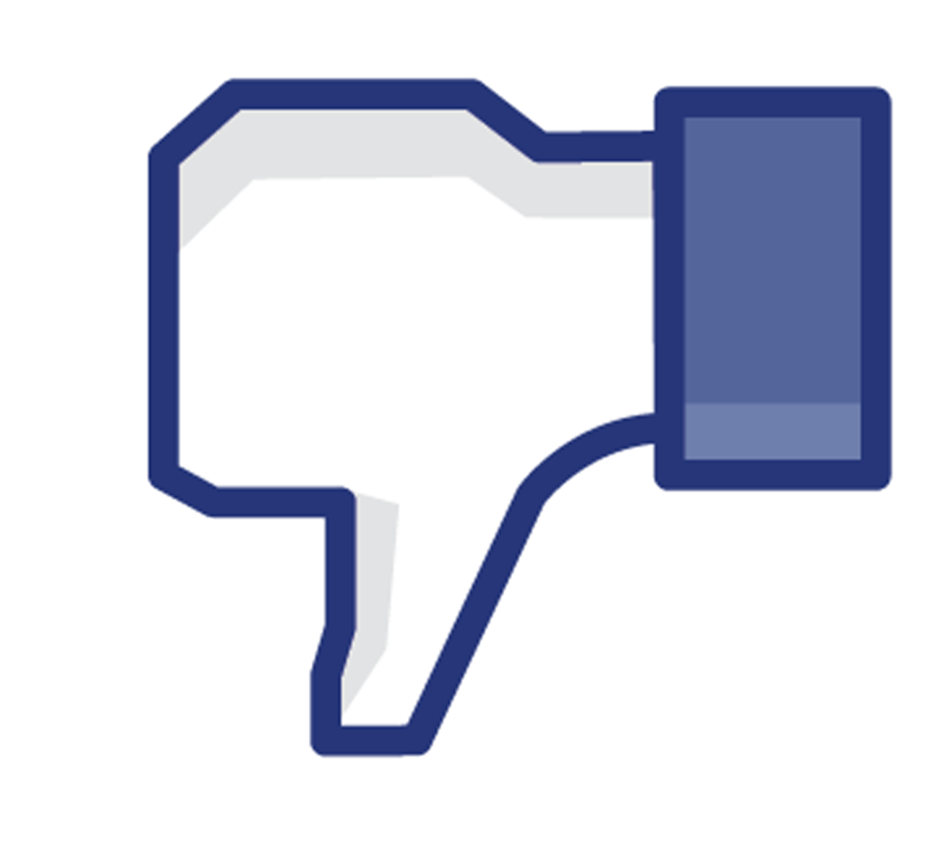
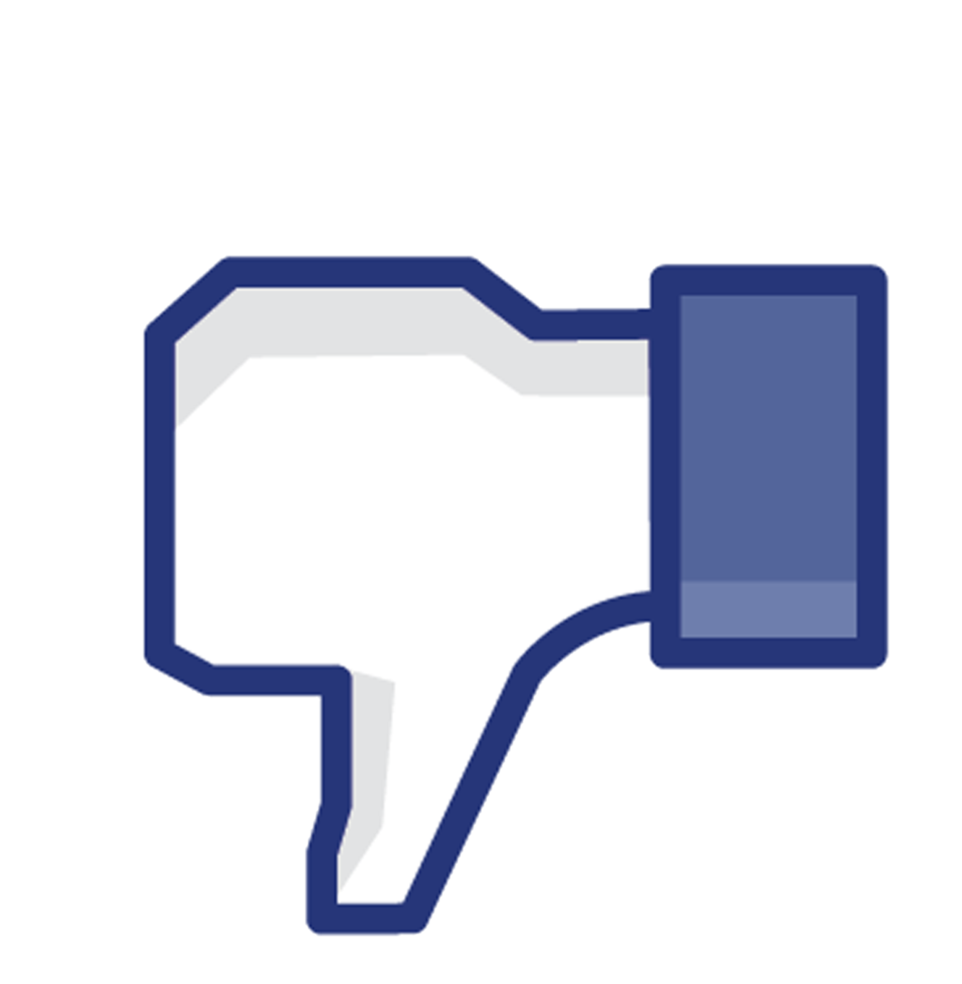
Adjusted voting button alignment

diff --git a/script.js b/script.js
@@ -125,18 +125,18 @@ socket.onmessage = function(event) {
 				content += '<li data-page="'+ k +'"><a href="#" >'+ k +'</a></li>';
 			}
 		
-			content += '</ul></div></div>';
+			content += '</ul>';
 			
 			content += '<table align="right"><tbody>'
 							+ '<tr class="voteCell_'+ iOffset +'">'
 							//+ '<td class="upvote" id="' + jsonData[apiCall][j].pID +'">'
-							+ '<td class="upvote">'
-							+ '<input type="image" src='+chrome.extension.getURL("images/thumb-up.png")+' name="up" class="submit" value="" height="35px" /></td>'
-							+ '<td>15</td>'
+							+ '<td style="vertical-align:middle;" class="upvote">'
+							+ '<input type="image" src='+chrome.extension.getURL("images/thumb-up.png")+' name="up" class="submit" value="" height="50px" /></td>'
+							+ '<td style="vertical-align:middle;">15</td>'
 							//+ '<td class="downvote" id="' + jsonData[apiCall][j].pID +'">'
-							+ '<td class="downvote">'
-							+ '<input type="image" src='+chrome.extension.getURL("images/thumb-down.png")+' name="down" class="submit" value="" height="35px" /></td>'
-							+ '<td>2</td></tr>';
+							+ '<td style="vertical-align:bottom;" class="downvote">'
+							+ '<input type="image" src='+chrome.extension.getURL("images/thumb-down.png")+' name="down" class="submit" value="" height="50px" /></td>'
+							+ '<td style="vertical-align:middle;">2</td></tr></div></div>';
 				
 			doSearch(apiCall, id, content);
 		}
